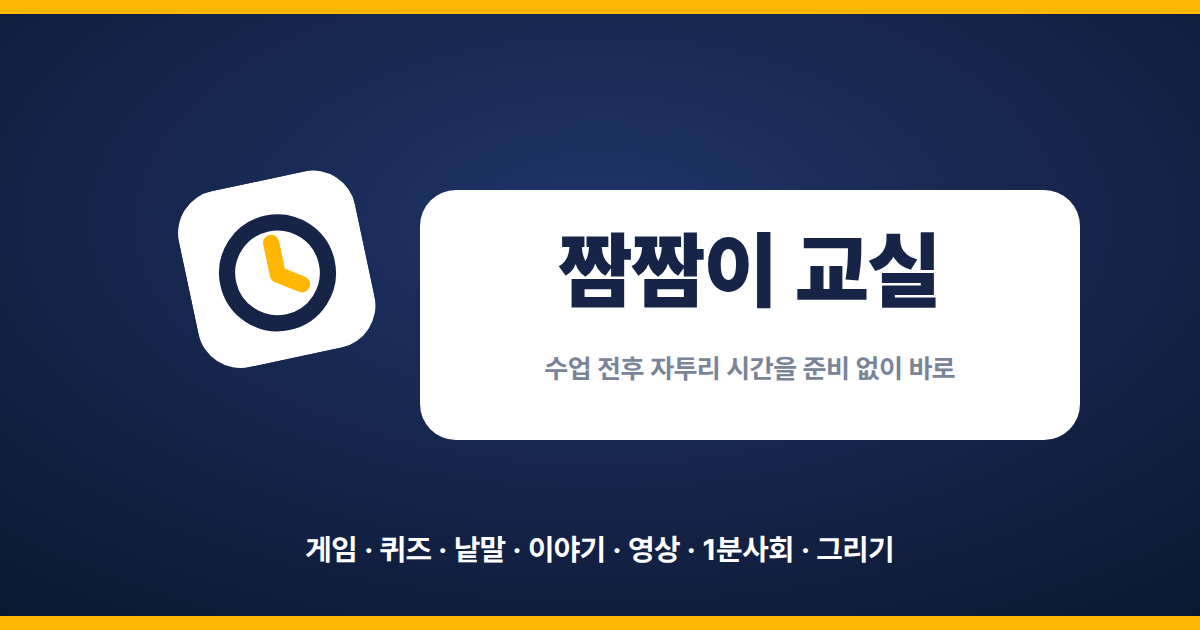
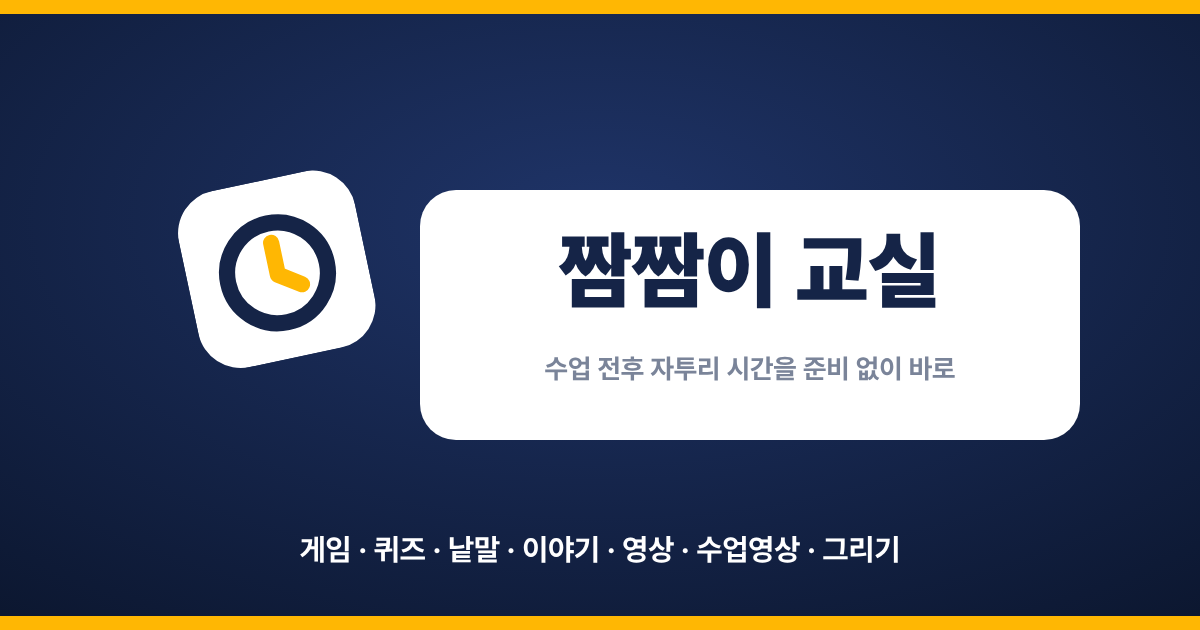
feat(home): 모아보기 카드를 '짬짬이 수업영상'으로 (#65)
1min 사이트가 짬짬이 수업영상으로 이름을 바꾼 것(#64, 발행 확인함)을
모아보기 첫 화면에 따라 맞춘다.

- 카드: 짬짬이 1분사회 / 교과서 한 차시를 1분 영상으로 / 1~2분
     → 짬짬이 수업영상 / 차시마다, 수업에 바로 쓰는 영상 / 1~10분
  (설명 영상이 5~8분이라 1~2분은 더 맞지 않는다)
- 위쪽 바로가기 아이콘 aria-label, description·og:description 의 사이트 목록
- 공유 카드(home/og-image) 아랫줄 목록을 gen-og 로 다시 굽고 og:image ?v=2

카드 개수는 그대로 둔다 — 발행 때 sync-counts 가 데이터에서 다시 넣는다.

Claude-Session: https://claude.ai/code/session_011ChbLu6m5zLFMio2mJUXn4

Changed region(s): [[0.2467, 0.8444, 0.7708, 0.9048], [0.4625, 0.573, 0.8017, 0.6032]]

diff --git a/home/index.html b/home/index.html
@@ -4,23 +4,23 @@
 <meta charset="utf-8">
 <meta name="viewport" content="width=device-width, initial-scale=1, viewport-fit=cover">
 <title>짬짬이 교실 — 수업 전후 자투리 시간을 준비 없이 바로</title>
-<meta name="description" content="짬짬이 게임·퀴즈·낱말·이야기·영상·1분사회·그리기를 한곳에 모았습니다. 수업 전후 자투리 시간을 준비 없이 바로 채워 드립니다. 설치·로그인 없음.">
+<meta name="description" content="짬짬이 게임·퀴즈·낱말·이야기·영상·수업영상·그리기를 한곳에 모았습니다. 수업 전후 자투리 시간을 준비 없이 바로 채워 드립니다. 설치·로그인 없음.">
 <meta name="theme-color" content="#152447">
 <!-- 공유 미리보기(카카오톡·슬랙) — 그림은 favicon.svg 에서 나온다(저장소 루트 scripts/gen-og.mjs). 그림을 바꾸면 ?v= 를 올린다. -->
 <meta property="og:type" content="website">
 <meta property="og:site_name" content="짬짬이 교실">
 <meta property="og:locale" content="ko_KR">
 <meta property="og:title" content="짬짬이 교실 — 짬짬이 일곱 가지를 한곳에">
-<meta property="og:description" content="수업 전후 자투리 시간을 준비 없이 바로 채워 드립니다. 게임·퀴즈·낱말·이야기·영상·1분사회·그리기. 설치·로그인 없음.">
+<meta property="og:description" content="수업 전후 자투리 시간을 준비 없이 바로 채워 드립니다. 게임·퀴즈·낱말·이야기·영상·수업영상·그리기. 설치·로그인 없음.">
 <meta property="og:url" content="https://shway81-droid.github.io/jjam-classroom/">
-<meta property="og:image" content="https://shway81-droid.github.io/jjam-classroom/og-image.png?v=1">
+<meta property="og:image" content="https://shway81-droid.github.io/jjam-classroom/og-image.png?v=2">
 <meta property="og:image:width" content="1200">
 <meta property="og:image:height" content="630">
 <meta property="og:image:alt" content="짬짬이 교실 — 짬짬이 일곱 가지를 한곳에">
 <meta name="twitter:card" content="summary_large_image">
 <meta name="twitter:title" content="짬짬이 교실 — 짬짬이 일곱 가지를 한곳에">
 <meta name="twitter:description" content="수업 전후 자투리 시간을 준비 없이 바로 채워 드립니다.">
-<meta name="twitter:image" content="https://shway81-droid.github.io/jjam-classroom/og-image.png?v=1">
+<meta name="twitter:image" content="https://shway81-droid.github.io/jjam-classroom/og-image.png?v=2">
 <link rel="icon" href="favicon.svg" type="image/svg+xml">
 <!-- iOS 홈 화면은 SVG 를 쓰지 않는다 — PNG 로 준다(scripts/gen-icons.mjs 가 favicon.svg 에서 굽는다). -->
 <link rel="apple-touch-icon" href="assets/icons/apple-touch-icon.png">
@@ -150,7 +150,7 @@ p { margin: 0; }
       <a href="https://shway81-droid.github.io/jjam-word/" aria-label="짬짬이 낱말"><svg class="icon" width="44" height="44" aria-hidden="true"><use href="#i-word"/></svg></a>
       <a href="https://shway81-droid.github.io/jjam-story/" aria-label="짬짬이 이야기"><svg class="icon" width="44" height="44" aria-hidden="true"><use href="#i-story"/></svg></a>
       <a href="https://shway81-droid.github.io/jjam-video/" aria-label="짬짬이 영상"><svg class="icon" width="44" height="44" aria-hidden="true"><use href="#i-video"/></svg></a>
-      <a href="https://shway81-droid.github.io/jjam-1min/" aria-label="짬짬이 1분사회"><svg class="icon" width="44" height="44" aria-hidden="true"><use href="#i-1min"/></svg></a>
+      <a href="https://shway81-droid.github.io/jjam-1min/" aria-label="짬짬이 수업영상"><svg class="icon" width="44" height="44" aria-hidden="true"><use href="#i-1min"/></svg></a>
       <a href="https://shway81-droid.github.io/jjam-draw/" aria-label="짬짬이 그리기"><svg class="icon" width="44" height="44" aria-hidden="true"><use href="#i-draw"/></svg></a>
     </nav>
   </div>
@@ -195,9 +195,9 @@ p { margin: 0; }
     </a>
     <a class="card" href="https://shway81-droid.github.io/jjam-1min/">
       <svg class="icon" width="72" height="72" aria-hidden="true"><use href="#i-1min"/></svg>
-      <h3>짬짬이 1분사회</h3>
-      <p class="line">교과서 한 차시를 1분 영상으로</p>
-      <div class="time"><span class="min">1~2분</span><span class="amt" data-count="1min">차시 영상 192</span></div>
+      <h3>짬짬이 수업영상</h3>
+      <p class="line">차시마다, 수업에 바로 쓰는 영상</p>
+      <div class="time"><span class="min">1~10분</span><span class="amt" data-count="1min">차시 영상 192</span></div>
       <span class="go" style="color:#E8590C">열기 →</span>
     </a>
     <a class="card" href="https://shway81-droid.github.io/jjam-draw/">
